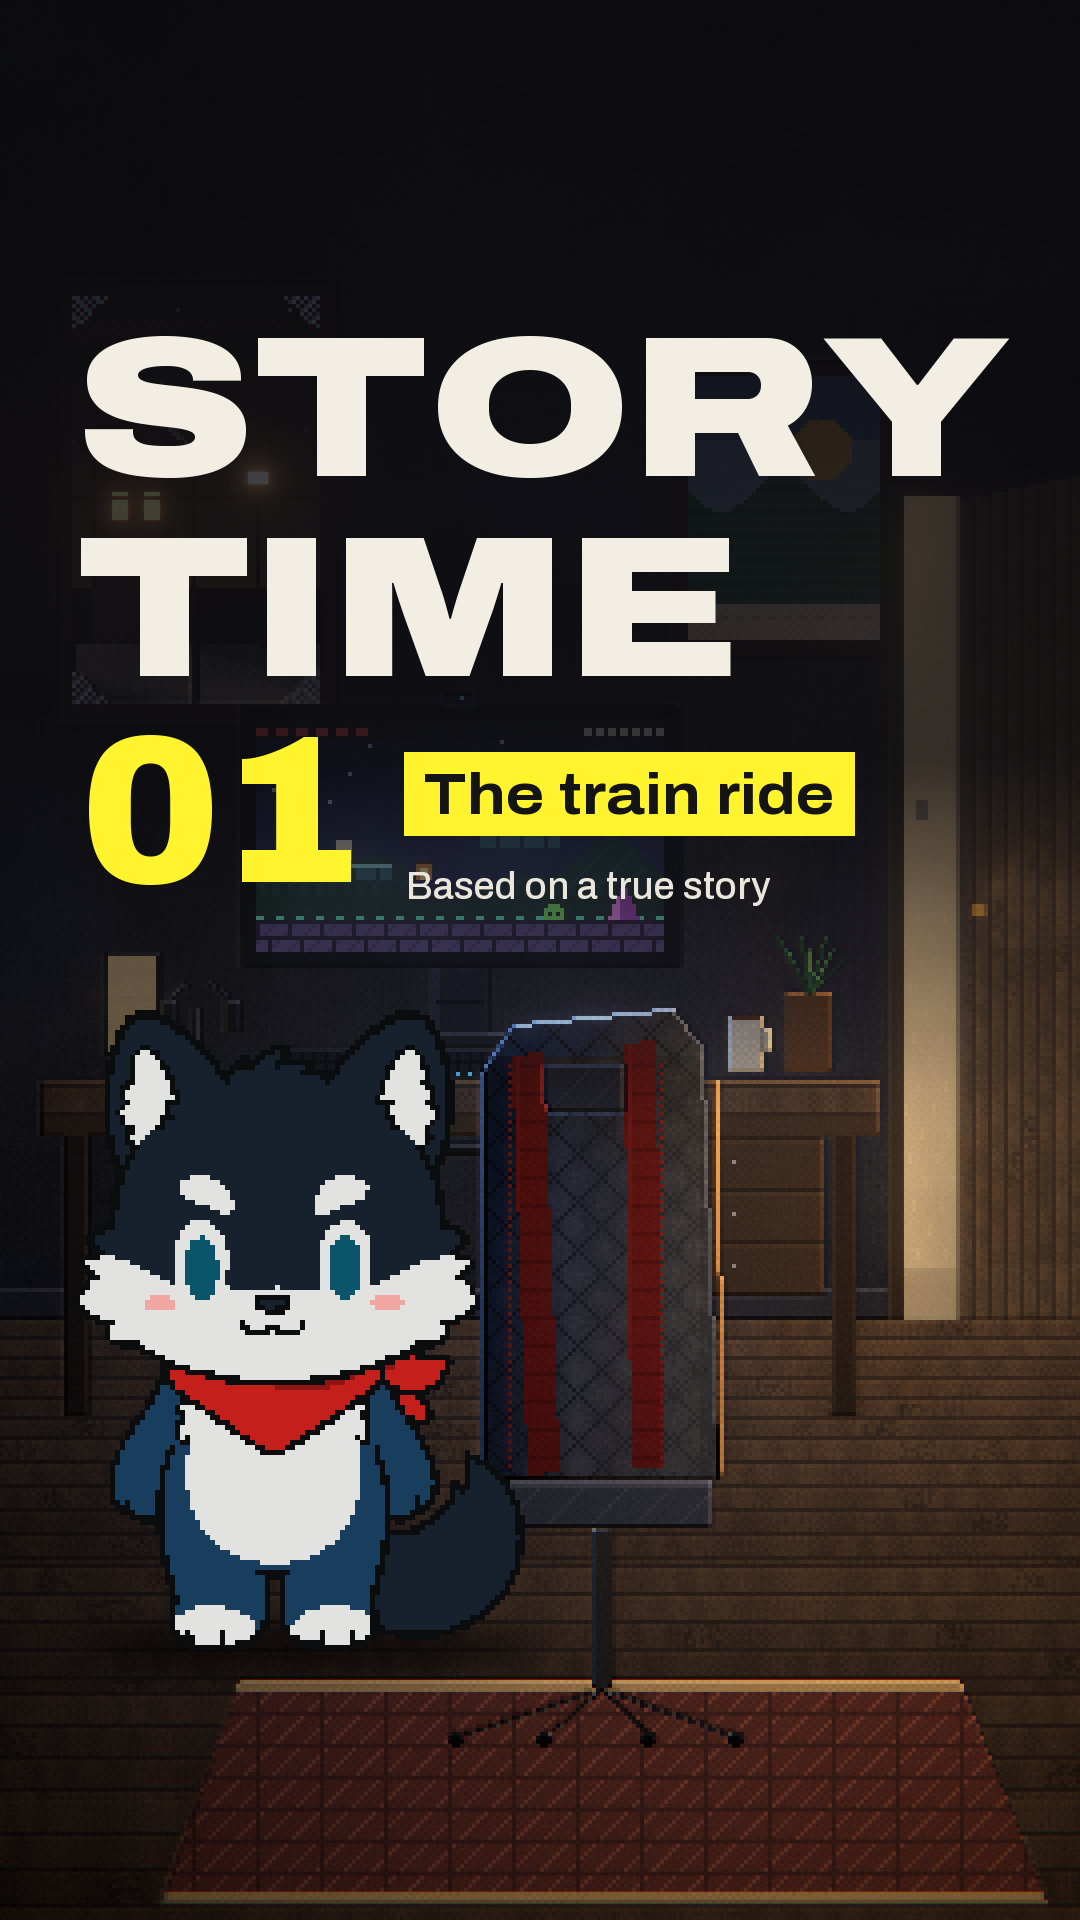
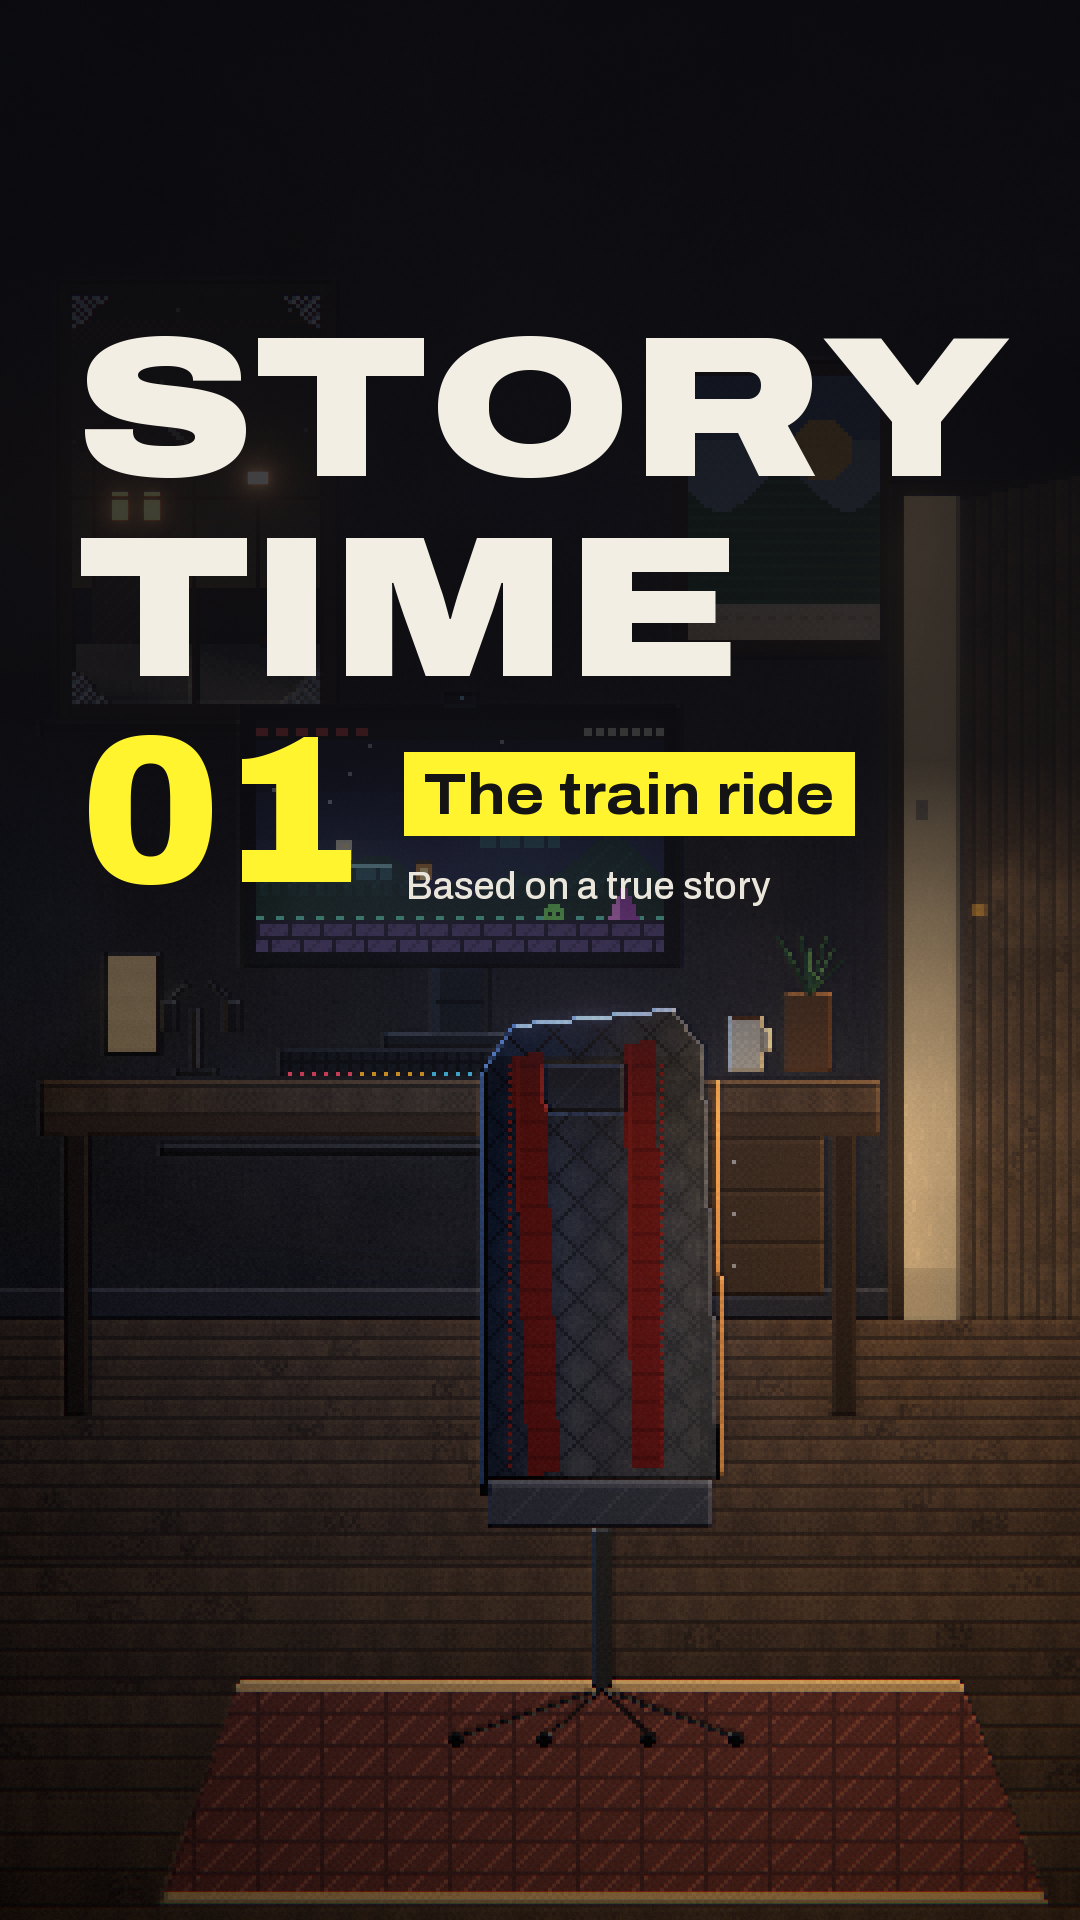
Series cover without Chob (owner): empty chair in the streamer's room
cover.py draws no character by default; --chob puts pixel Chob back.
ST-01 cover re-made; skill, HANDOFF and ready-to-post README synced.

Changed region(s): [[0.0611, 0.5, 0.4889, 0.875]]

diff --git a/brand-video/tools/cover.py b/brand-video/tools/cover.py
@@ -4,7 +4,8 @@
   python tools/cover.py --make-chob D:/APP/heroes/CHOB_CANONICAL.png      (only if Chob's art changes)
 
 Layers: the series plate (the streamer's desk room from the film engine, rendered with --notext),
-pixel Chob (made from the locked canonical art by tools/cover.py --make-chob), the title block.
+the title block. No character (owner, 2026-10-05); `--chob` puts pixel Chob back (made from the
+locked canonical art by --make-chob).
 Everything sits inside TikTok's 3:4 grid crop (y 240-1680 of 1080x1920).
 """
 import argparse
@@ -85,7 +86,7 @@ def font(name, size):
     return ImageFont.truetype(str(FONTS / name), size)
 
 
-def cover(num: str, title: str, out: Path):
+def cover(num: str, title: str, out: Path, with_chob=False):
     plate = Image.open(KIT / 'plate_desk.png').convert('RGB').resize((W, H))
     img = plate.convert('RGBA')
 
@@ -97,14 +98,15 @@ def cover(num: str, title: str, out: Path):
         d.line([(0, y), (W, y)], fill=v)
     img = Image.composite(Image.new('RGBA', (W, H), (12, 12, 16, 255)), img, wash)
 
-    # pixel Chob on the rug, with a soft contact shadow
-    chob = Image.open(KIT / 'chob_pixel.png')
-    cx, foot = 300, 1650
-    shadow = Image.new('L', (W, H), 0)
-    ImageDraw.Draw(shadow).ellipse([cx - 210, foot - 26, cx + 230, foot + 22], fill=150)
-    shadow = shadow.filter(ImageFilter.GaussianBlur(14))
-    img = Image.composite(Image.new('RGBA', (W, H), (0, 0, 0, 255)), img, shadow)
-    img.alpha_composite(chob, (cx - chob.width // 2, foot - chob.height))
+    # pixel Chob on the rug, with a soft contact shadow (off by default: owner removed him, 2026-10-05)
+    if with_chob:
+        chob = Image.open(KIT / 'chob_pixel.png')
+        cx, foot = 300, 1650
+        shadow = Image.new('L', (W, H), 0)
+        ImageDraw.Draw(shadow).ellipse([cx - 210, foot - 26, cx + 230, foot + 22], fill=150)
+        shadow = shadow.filter(ImageFilter.GaussianBlur(14))
+        img = Image.composite(Image.new('RGBA', (W, H), (0, 0, 0, 255)), img, shadow)
+        img.alpha_composite(chob, (cx - chob.width // 2, foot - chob.height))
 
     d = ImageDraw.Draw(img)
     big = font('Archivo-w1250-900.ttf', 200)
@@ -132,10 +134,11 @@ if __name__ == '__main__':
     p = argparse.ArgumentParser()
     p.add_argument('--num'); p.add_argument('--title'); p.add_argument('--out')
     p.add_argument('--make-chob', metavar='CANONICAL_PNG')
+    p.add_argument('--chob', action='store_true', help='put pixel Chob back on the cover')
     a = p.parse_args()
     if a.make_chob:
         KIT.mkdir(parents=True, exist_ok=True)
         make_chob(Path(a.make_chob), KIT / 'chob_pixel.png')
         print(KIT / 'chob_pixel.png')
     else:
-        cover(a.num, a.title, Path(a.out))
+        cover(a.num, a.title, Path(a.out), a.chob)

diff --git a/brand-video/HANDOFF.md b/brand-video/HANDOFF.md
@@ -95,9 +95,9 @@ cost is CPU-bound (one Chrome thread; the GPU idles at 10–40 %), so `--scale 2
 
 - **ST-01 is final at 1080p60** (owner, 2026-10-04): no level-8 polish, no 4K.
 - **One series cover for all Streamer Stories** (owner, 2026-10-04): "STORY TIME" + episode number +
-  title, pixel Chob in the streamer's room (`tools/cover.py`; plate and pixel Chob in
-  `assets/cover/`, Chob pixelated from the locked `CHOB_CANONICAL.png`, not redrawn). The cover is the
-  one place a Story shows Chob; the film itself stays brand-free.
+  title over the streamer's room with the empty chair (`tools/cover.py`, plate in `assets/cover/`).
+  **No character on it (owner, 2026-10-05: Chob removed)**, so Stories stay brand-free on the cover
+  too. Pixel Chob is kept in `assets/cover/chob_pixel.png`; `--chob` puts him back if ever wanted.
 - **Posting package** = `ready-to-post/<ID>_<name>/` at the repo root (owner moved it out of `brand-video/`) with `_video.mp4`, `_cover.png`,
   `_description.txt` (`ready-to-post/README.md`). No AI watermark on the video (owner turned it off
   2026-08-08); the description credits Suno and TikTok's AI-content switch goes on.

diff --git a/.claude/skills/chobbot-film/SKILL.md b/.claude/skills/chobbot-film/SKILL.md
@@ -23,7 +23,7 @@ Everything lives in `brand-video/` (never mixed with other projects). Read first
 5. **Nobody sings on screen.** The song is background; lyrics appear as subtitles, chat, kinetic type.
 6. **Streamer Stories carry no brand:** no end card, logo, tagline, sonic logo or companion. The
    channel's avatar and name already carry the brand. Brand films use the end card (`app/src/kit/endcard.ts`).
-   **Exception (owner, 2026-10-04): the series cover** carries pixel Chob ("STORY TIME" + number), see step 9.
+   The series cover ("STORY TIME" + number + title, step 9) has no character either (owner, 2026-10-05: Chob removed).
 7. **Stories open on the song at once** (no intro, no splice), with the hook sticker
    **"Based on a true story"** popping on over the first shot for 2.5–3 s, across the first cut.
 8. **Subtitles show the written lyric.** Small sung slips are accepted; a new take only if a line is

diff --git a/ready-to-post/README.md b/ready-to-post/README.md
@@ -25,8 +25,8 @@ The folder is called `<ID>_<name>`, the same as the film's working folder in `fi
 
 ## The cover (one series design, only number and title change)
 
-"STORY TIME", the episode number in yellow, the title on a yellow bar, "Based on a true story", pixel
-Chob in the streamer's room. Everything sits inside TikTok's 3:4 grid crop. Make a new one with:
+"STORY TIME", the episode number in yellow, the title on a yellow bar, "Based on a true story", the
+empty chair in the streamer's room (no character). Everything sits inside TikTok's 3:4 grid crop. Make a new one with:
 
 ```
 cd brand-video
